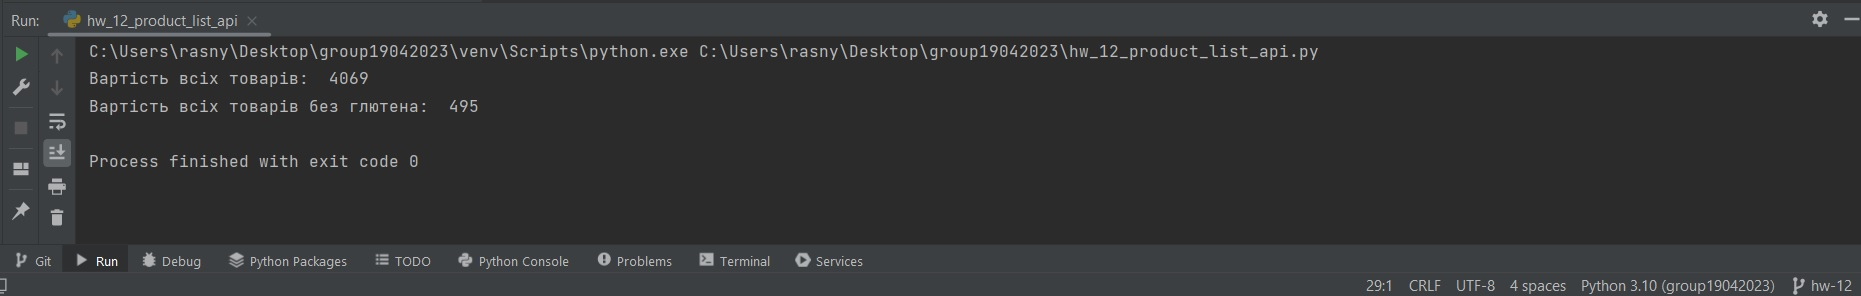
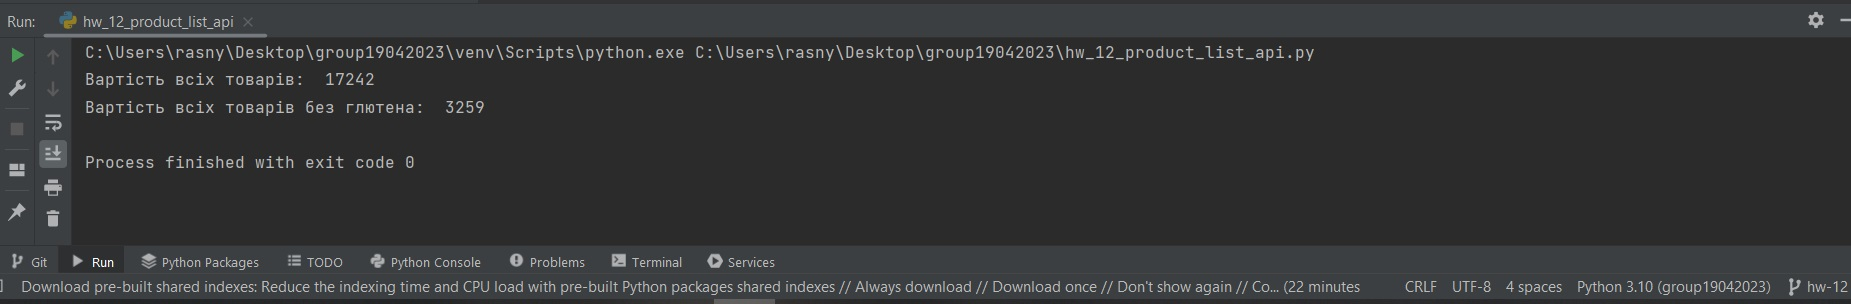
Fixed Homework 12

diff --git a/hw_12_product_list_api.py b/hw_12_product_list_api.py
@@ -12,17 +12,19 @@ clean_product_data = product_data['data']
 
 product_price_set = []
 product_price_gluten_free_set = []
-total_price = 0
-total_gluten_free_price = 0
+product_price_sum = 0
+gluten_free_price_sum = 0
 
 for product in clean_product_data:
     product_price = product['product_price']
-    product_is_gluten = product['is_gluten']
-    product_price_set.append(product_price)
-    total_price = sum(product_price_set)
-    if product_is_gluten is False:
-        product_price_gluten_free_set.append(product_price)
-        total_gluten_free_price = sum(product_price_gluten_free_set)
+    product_contains_gluten = product['is_gluten']
+    product_stock_number = product['product_stock']
+    total_product_price = product_price * product_stock_number
+    product_price_set.append(total_product_price)
+    product_price_sum = sum(product_price_set)
+    if not product_contains_gluten:
+        product_price_gluten_free_set.append(total_product_price)
+        gluten_free_price_sum = sum(product_price_gluten_free_set)
 
-print('Вартість всіх товарів: ', total_price)
-print('Вартість всіх товарів без глютена: ', total_gluten_free_price)
+print('Вартість всіх товарів: ', product_price_sum)
+print('Вартість всіх товарів без глютена: ', gluten_free_price_sum)
